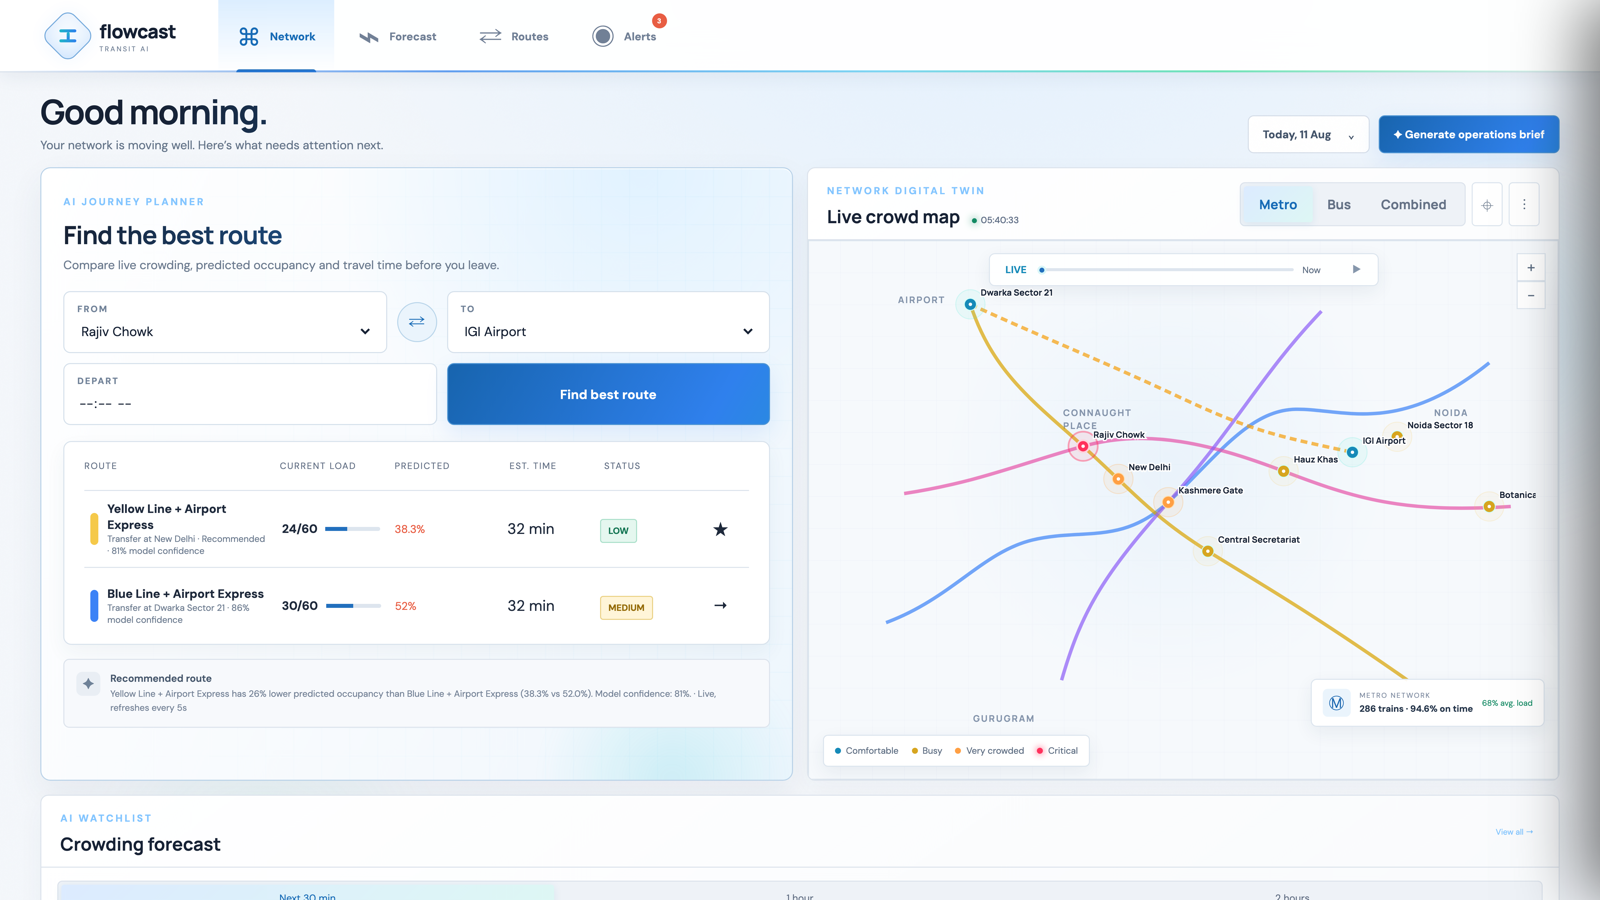
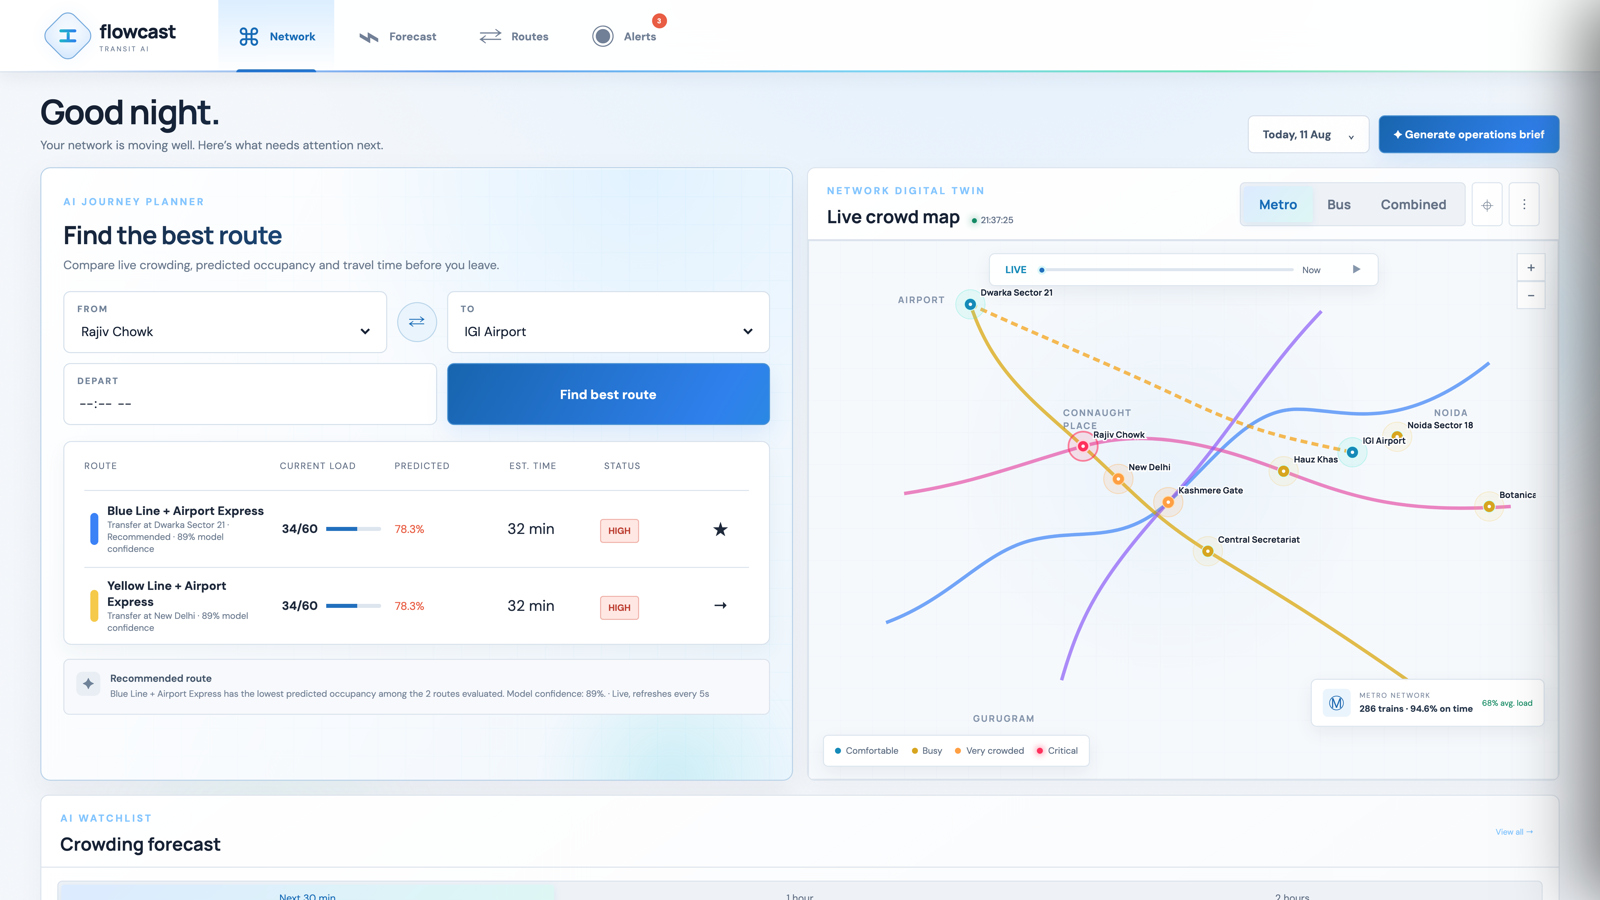
docs: update README for the real trained model + Forecast redesign
The README still described predict_crowding() as "a heuristic standing
in for a trained model" with a placeholder version string — that's
been wrong since the Random Forest integration: crowdnet-gbrt-v2.4.1
is now genuinely the fallback, not the primary path.

- Rewrote "The prediction model" to describe predict_best_effort() as
  the shared entry point, the trained RandomForestRegressor (trained
  on ~104k rows of real NYC MTA ridership), why it's pruned to 20
  trees (empirically measured, not guessed), the Delhi station
  out-of-distribution caveat, and the nearest-neighbor historical
  lookup that replaced the original exact-timestamp requirement.
- Updated the wiring diagram, features list, swappable-architecture
  section, and deferred-work table to match (retraining on real Delhi
  data is now the named next step, not "add a trained model").
- Refreshed project structure with app/ml/inference.py, artifacts/,
  and the new flowcast_mta_data.csv, plus the ML deps in
  requirements.txt.
- Added an ML badge.
- Refreshed the hero and Forecast screenshots to show the current live
  app (real confidence scores, the new heatmap legend + click-to-select
  detail). Alerts screenshot unchanged since that page's content is
  static.

diff --git a/README.md b/README.md
@@ -7,6 +7,7 @@
 [![Live Demo](https://img.shields.io/badge/demo-live-1E8E5A?style=for-the-badge)](https://flowcast-transit-ai.vercel.app)
 [![Frontend](https://img.shields.io/badge/frontend-react%20%2B%20typescript-61DAFB?style=flat-square)](#frontend--flowcast)
 [![Backend](https://img.shields.io/badge/backend-fastapi-009688?style=flat-square)](#backend--transitpulse-api)
+[![ML](https://img.shields.io/badge/ML-random%20forest-F7931E?style=flat-square)](#the-prediction-model)
 [![Deployed on Render](https://img.shields.io/badge/API-render-46E3B7?style=flat-square)](https://transit-crowding-backend.onrender.com/docs)
 [![Auth](https://img.shields.io/badge/auth-clerk-6C47FF?style=flat-square)](#auth--multi-tenancy-design)
 
@@ -26,8 +27,11 @@ commuters see crowding coming before it happens, and operators can act on it.
 
 The dashboard is a live React app talking to a real FastAPI service in
 production: pick a source and destination, and the **AI Journey Planner**
-calls the deployed model to compare every viable route by predicted
-occupancy, refreshing every 5 seconds.
+calls a trained Random Forest model to compare every viable route by
+predicted occupancy, refreshing every 5 seconds. The model is real — trained
+on ~104k rows of real transit ridership — not a mocked response; see
+[The prediction model](#the-prediction-model) for what it actually does and
+where it's still limited.
 
 <br/>
 
@@ -57,8 +61,9 @@ occupancy, refreshing every 5 seconds.
 
               GET /stations, POST /recommend-route
         ───────────────────────────────────────────▶
-                                                          predict_crowding() →
-                                                          confidence + factors + drift
+                                                          predict_best_effort() →
+                                                          trained Random Forest,
+                                                          falls back to a heuristic
               ◀───────────────────────────────────────
                     polled every 5s while the
                        Journey Planner is open
@@ -75,13 +80,18 @@ occupancy, refreshing every 5 seconds.
 ## Features
 
 - **AI Journey Planner** — pick a source and destination, get every viable
-  route (direct + single-transfer) ranked by predicted occupancy, with a
-  plain-language reason for the recommendation and a model confidence score.
-  Polls the live API every 5 seconds.
+  route (direct + single-transfer) ranked by predicted occupancy from a
+  trained Random Forest model, with a plain-language reason for the
+  recommendation and a confidence score. Re-runs automatically whenever you
+  change either station or hit swap, and polls the live API every 5 seconds
+  while open.
 - **Live crowd map** — a network digital twin showing real-time station load
   across metro, bus, or both, with a time scrubber to scan recent history.
-- **Crowd Forecast Studio** — a per-line heatmap projecting demand up to 2
-  hours ahead, plus the next predicted network peak.
+- **Crowd Forecast Studio** — a clickable per-line heatmap (select a cell for
+  its route/time/predicted-load breakdown) projecting demand up to 2 hours
+  ahead, plus the next predicted network peak — hottest line, busiest
+  station, expected riders — all derived live from the heatmap itself, not
+  hardcoded. "Run latest model" genuinely regenerates it.
 - **Alerts & interventions** — capacity-breach predictions with a
   recommended response (deploy marshals, hold trains, issue an advisory).
 - **Demand simulator** — stress-test the network against a hypothetical
@@ -149,16 +159,54 @@ Two things live in this one service:
 
 <br/>
 
-`predict_crowding()` is a heuristic standing in for a trained model —
-`crowdnet-gbrt-v2.4.1` in the response is a placeholder version string, not
-a real gradient-boosted model. It's built to be swapped for one without
-touching any caller: `build_feature_vector()` already produces the
-`(hour_sin, hour_cos, day_of_week, is_weekend, is_holiday, occupancy_ratio,
-weather_condition)` feature dict a trained model would consume, and
-`predict_crowding(features, capacity)` is the only function that needs to
-change.
+`predict_best_effort()` (`app/api/predict.py`) is the one entry point every
+caller uses — `/predict` directly, and `/recommend-route` once per candidate
+route. It tries the trained model first and falls back to a heuristic on any
+failure, so a bad request or a cold artifact never breaks a caller, it just
+degrades.
 
-What it returns today, alongside the point estimate:
+**The trained model** (`app/ml/inference.py`, `model_version:
+"flowcast-random-forest-v1"`) is a real `RandomForestRegressor` trained on
+~104k rows of real NYC subway ridership (`app/data/flowcast_mta_data.csv`,
+128,803 hourly readings across 428 stations — see
+`app/ml/artifacts/model_metadata.json` for the full training spec). It's not
+a mocked response.
+
+Two things worth knowing about it:
+
+- **Pruned from 300 trees to 20.** The full forest needs ~700MB just to
+  unpickle — more than Render's free-tier 512MB cap, before the app's other
+  dependencies (pandas/numpy/scikit-learn/FastAPI) even load. A forest's
+  prediction is the mean of its trees' outputs, so keeping a subset is
+  standard model compression, not a fake model — verified empirically (not
+  guessed) that the pruned model measures ~295MB RSS importing the full app,
+  with predictions shifting only ~2% vs. the untouched 300-tree version on
+  the stations it was actually trained on.
+- **Delhi's 9 stations are real geographic entries, not a borrowed NYC
+  identity, but the model has never seen Delhi ridership.** The station
+  mapping/metadata were originally NYC-only; this app's stations were
+  appended with their real public lat/long so the model can look them up and
+  actually run, instead of always falling back. But it was trained
+  exclusively on NYC data, so for Delhi stations it's extrapolating on
+  real-but-out-of-distribution input — geographic features carry little
+  signal that far outside the training range, so predictions currently vary
+  mostly by time-of-day and input ridership, not station. Treat trained-model
+  output for Delhi stations as illustrative, not a validated forecast, until
+  it's retrained on real Delhi ridership data.
+
+Lag/rolling-window features (`ridership_lag_1h`, `rolling_mean_6h`, etc.) are
+looked up from the historical dataset via nearest-neighbor search
+(`_nearest_reading`, within a 45-day window) rather than requiring an exact
+timestamp match — the dataset is sparse (some stations have only a few
+hundred readings across a full year), and this app always predicts for
+*right now*, which never exists verbatim in a 2021–2022 dataset. Falls back
+to the request's `current_passenger_count` when nothing is close enough,
+which is always the case for the 9 Delhi stations.
+
+**The heuristic fallback** (`predict_crowding()`, `model_version:
+"crowdnet-gbrt-v2.4.1"`) is what actually serves a request whenever the
+trained model can't — an unrecognized station, missing artifacts, whatever.
+What it returns alongside the point estimate:
 
 - **Per-factor contributions** — e.g. `rush_hour_peak: +30%`,
   `weekend_or_holiday_damping: -30%`, `live_ridership_signal: ±8%` — so a
@@ -332,9 +380,11 @@ Both auth paths resolve to an org-scoped `Principal` with a role;
 
 <br/>
 
-- `app/api/predict.py` — `predict_crowding(features, capacity)` is the seam
-  a trained model hooks into; `build_feature_vector()` already produces the
-  feature dict it would consume. See [The prediction model](#the-prediction-model).
+- `app/ml/inference.py` — `predict_ridership(station_id, timestamp,
+  current_passenger_count)` is the seam a retrained model hooks into.
+  Retraining on real Delhi ridership data (instead of the current NYC-only
+  model extrapolating on Delhi's lat/long) is the highest-value next step
+  here — see [The prediction model](#the-prediction-model).
 - `app/data/synthetic_data.py` (TransitPulse/`/api/v1` layer) — every
   function takes `org_id` first. A real GTFS-RT ingestion module implements
   the same signatures (keyed off each org's configured feed URL, stored on
@@ -358,7 +408,7 @@ Both auth paths resolve to an org-scoped `Principal` with a role;
 | Background refresh job (APScheduler, every N minutes/org) | `app/services/scheduler.py`, wraps `refresh_crowding_predictions` |
 | Stripe billing, usage metering, customer portal | `app/services/billing.py`, `app/services/usage.py`, new `subscriptions`/`usage_events` tables |
 | Webhook delivery (crowding-threshold alerts) | `app/services/webhooks.py`, new `webhooks` table |
-| A real trained model behind `predict_crowding()` | `app/ml/registry.py` |
+| Retrain the Random Forest on real Delhi ridership data | `app/ml/inference.py` — same `predict_ridership()` signature, new artifacts |
 | Rate limiting per plan tier | middleware in `app/main.py`, keyed off `Organization.plan_tier` |
 | Clerk webhook sync (replacing lazy sync) | new `app/api/v1/webhooks_clerk.py` receiver |
 
@@ -397,20 +447,27 @@ transit-crowding/
       main.py                   # FastAPI app factory, router mounts, CORS
       config.py                 # pydantic-settings: DATABASE_URL, CLERK_*, CORS origins
       api/
-        predict.py               # POST /predict — the crowding model
+        predict.py               # POST /predict — predict_best_effort(): trained model, heuristic fallback
         recommend.py             # GET /stations, POST /recommend-route
         v1/                      # orgs, members, api-keys, routes, trips, crowding
+      ml/
+        inference.py              # trained Random Forest — loading, nearest-neighbor lag lookups, predict_ridership()
+        model.py                  # rule-based heuristic used by the separate /api/v1 crowding endpoint
+        artifacts/                 # transit_crowding_model.joblib (pruned, 20 trees), feature_columns,
+                                    # station_mapping, station_metadata.csv, model_metadata.json
       db/                        # declarative Base, SessionLocal, get_db
       models/                    # SQLAlchemy ORM — organizations, users,
                                   # memberships, api_keys, routes, stops,
                                   # trips, crowding_predictions
       schemas/                   # Pydantic request/response contracts
       auth/                      # Clerk JWT verification, API keys, RBAC
-      data/synthetic_data.py     # org-parameterized synthetic GTFS generator
+      data/
+        synthetic_data.py         # org-parameterized synthetic GTFS generator (/api/v1 layer)
+        flowcast_mta_data.csv     # real NYC MTA hourly ridership (128,803 rows) — trained-model lag features
       services/transit.py        # seeding + prediction refresh
       scripts/seed_dev_org.py    # local-only: bootstrap an org without Clerk
     alembic/                     # migrations
-    requirements.txt             # production dependencies
+    requirements.txt             # production dependencies (incl. pandas/numpy/scikit-learn/joblib)
     requirements-dev.txt         # local-only extras (pgserver)
     .python-version              # pinned for Render's build image
     .env.example
